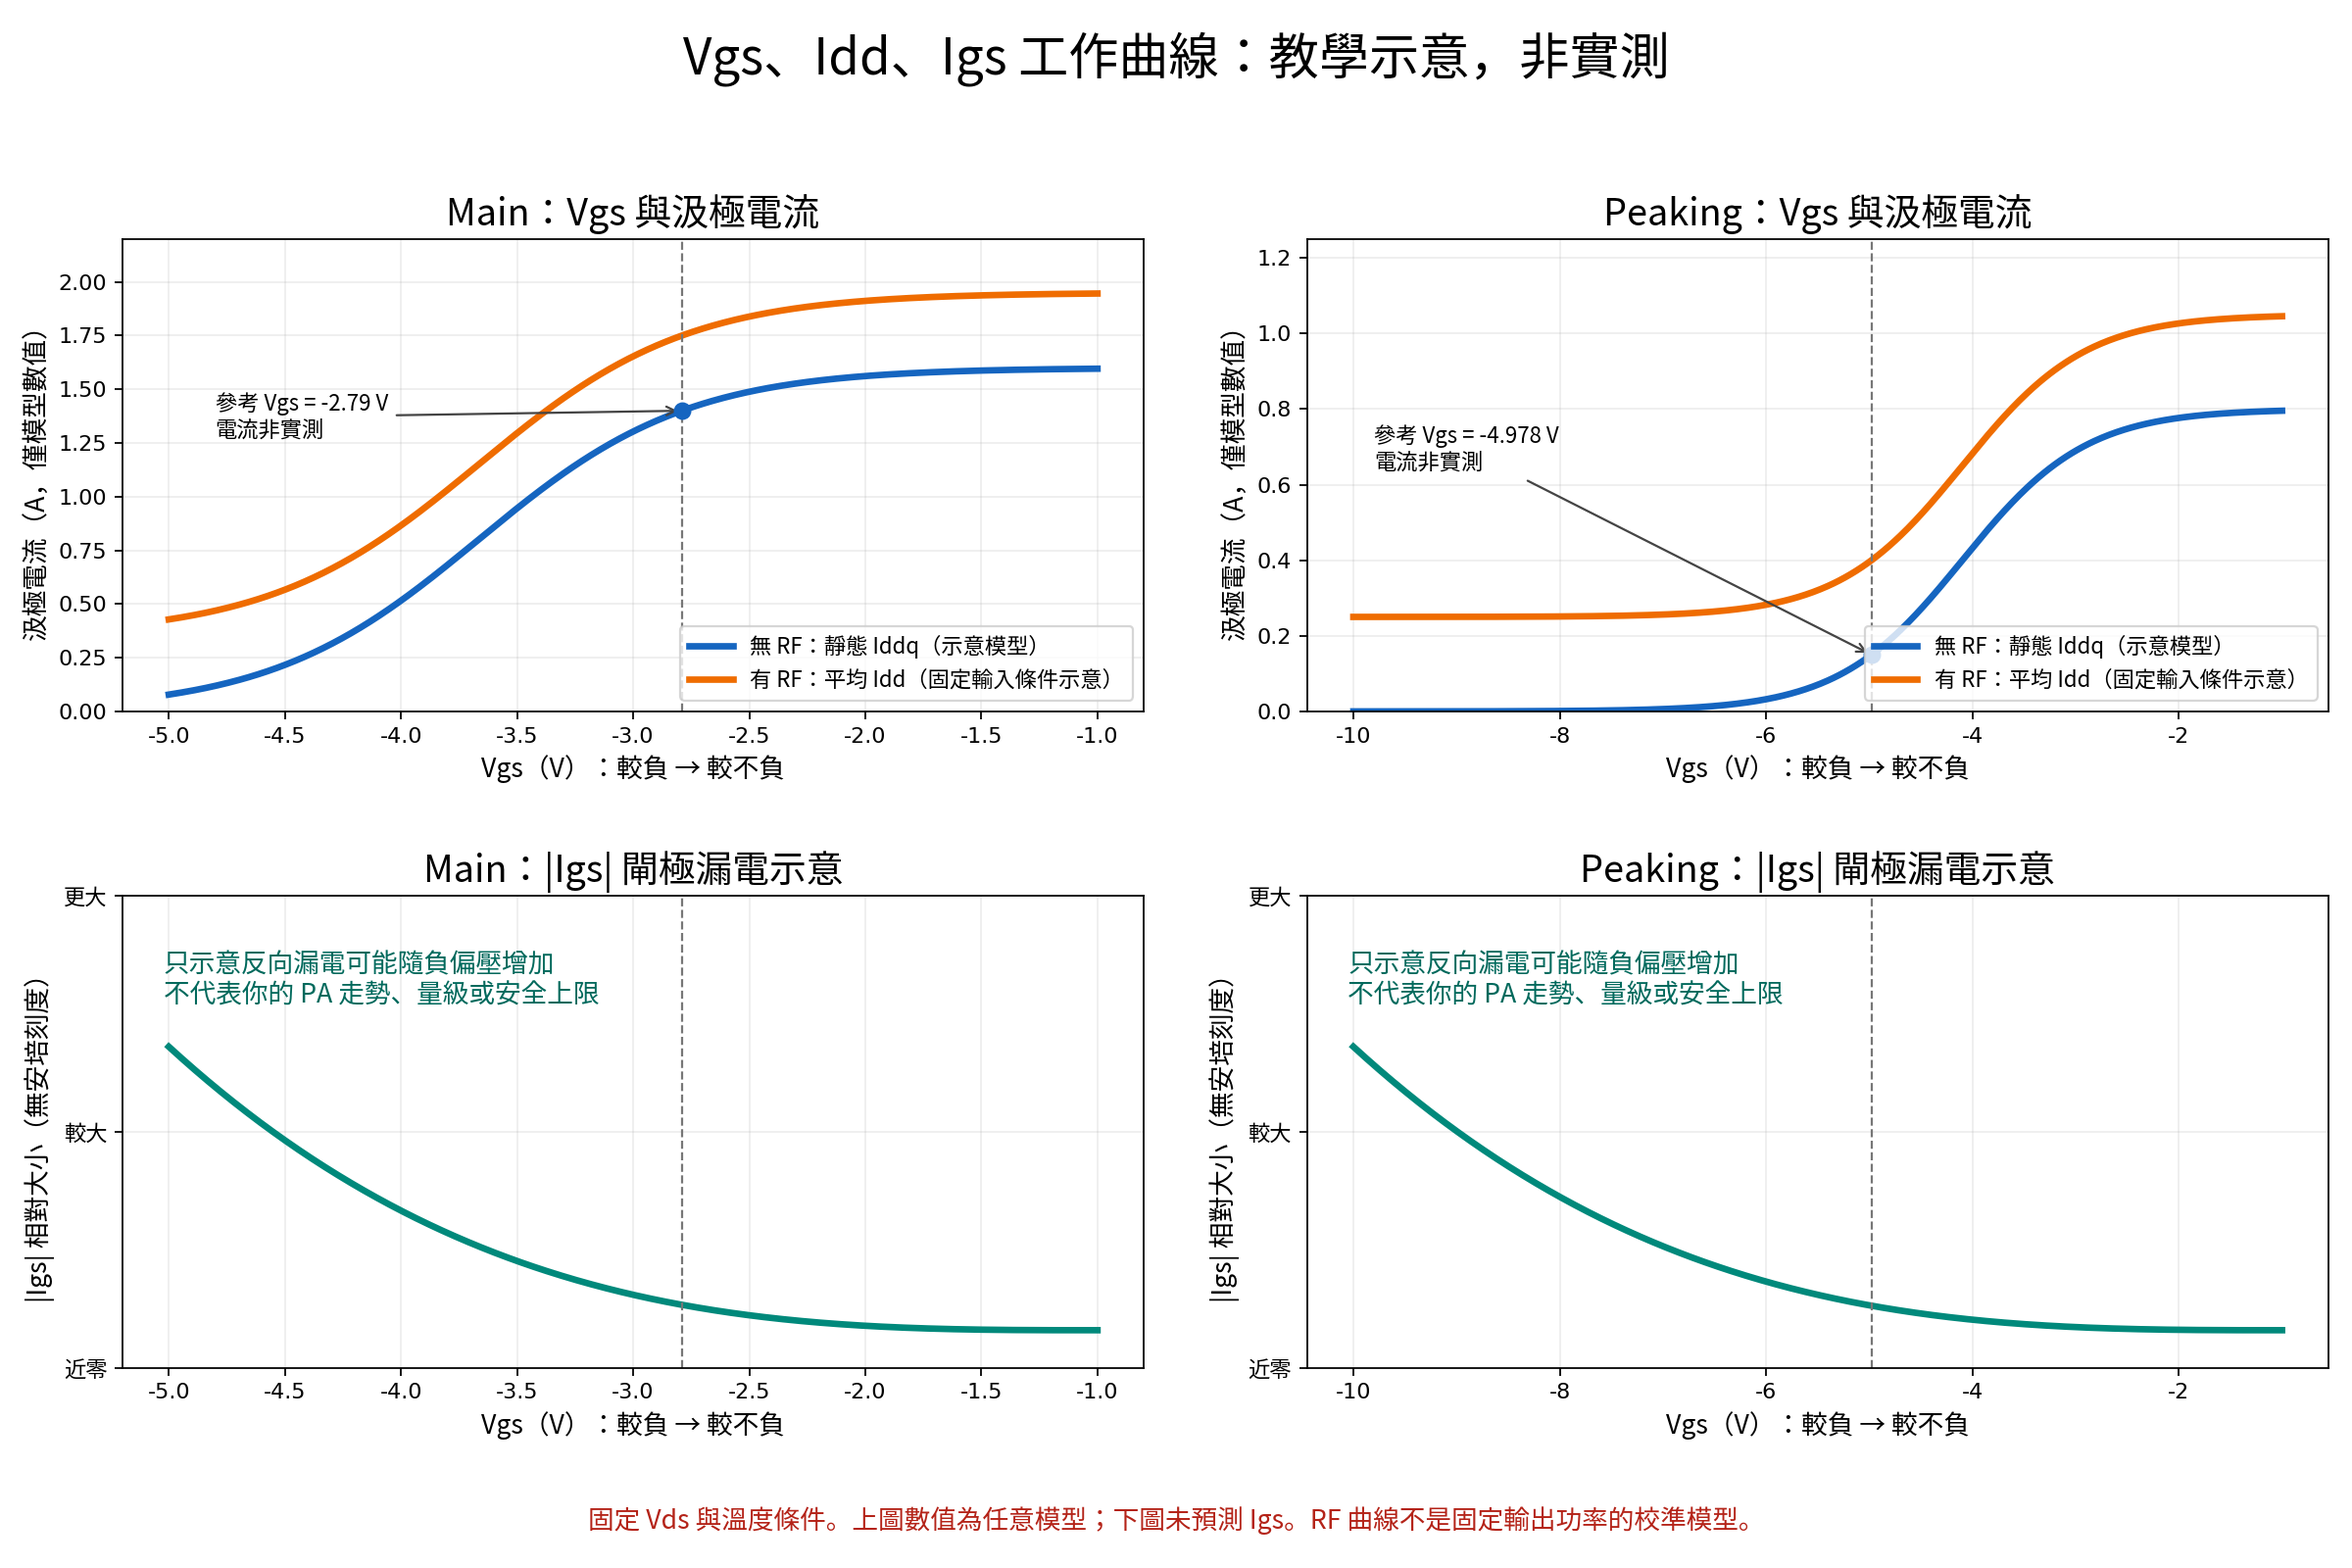
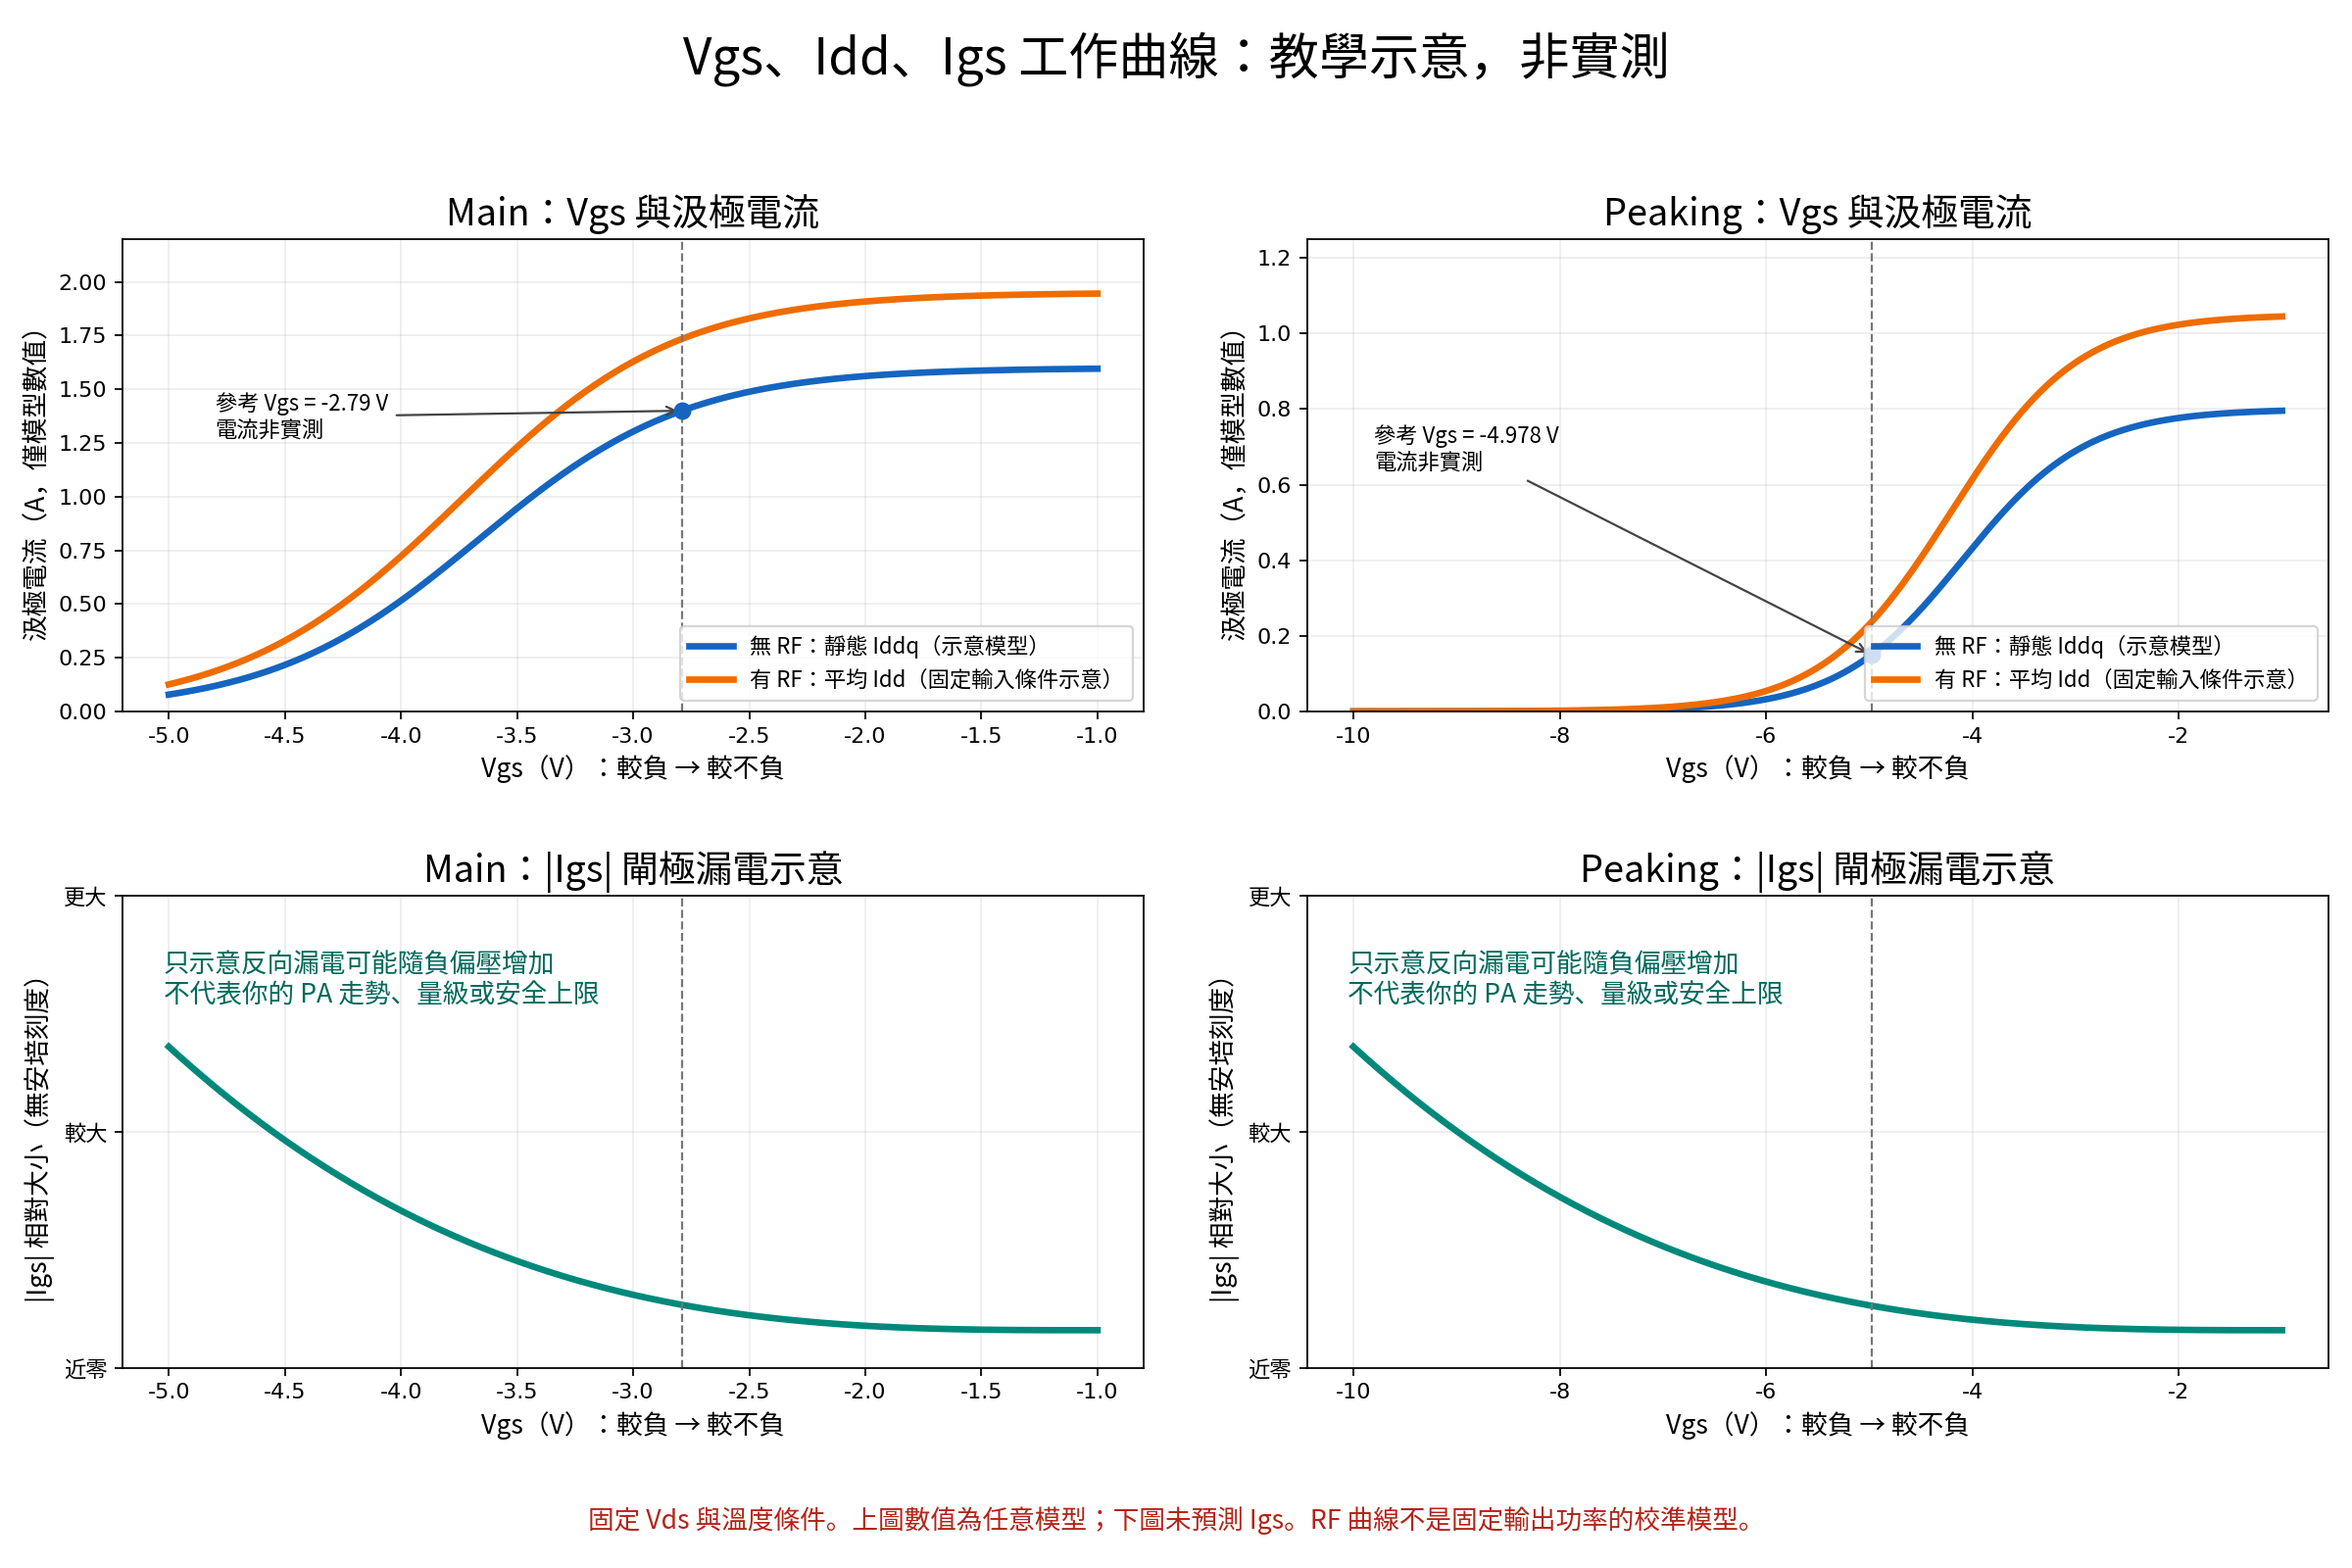
Illustrate near-zero RF current in deep cutoff

diff --git a/docs/plot_vgs_idd_igs.py b/docs/plot_vgs_idd_igs.py
@@ -17,7 +17,8 @@ for col,(name,low,ref,cap,mid,width,rfadd) in enumerate([
  q=cap/(1+np.exp(-(v+mid)/width))
  ax=axes[0,col]
  ax.plot(v,q,color='#1565c0',lw=3,label='無 RF：靜態 Iddq（示意模型）')
- ax.plot(v,q+rfadd,color='#ef6c00',lw=3,label='有 RF：平均 Idd（固定輸入條件示意）')
+ rf_extra=rfadd/(1+np.exp(-(v+mid+0.5)/width))
+ ax.plot(v,q+rf_extra,color='#ef6c00',lw=3,label='有 RF：平均 Idd（固定輸入條件示意）')
  ax.axvline(ref,color='#777',ls='--',lw=1)
  qr=cap/(1+np.exp(-(ref+mid)/width))
  ax.scatter([ref],[qr],color='#1565c0',s=50,zorder=5)
